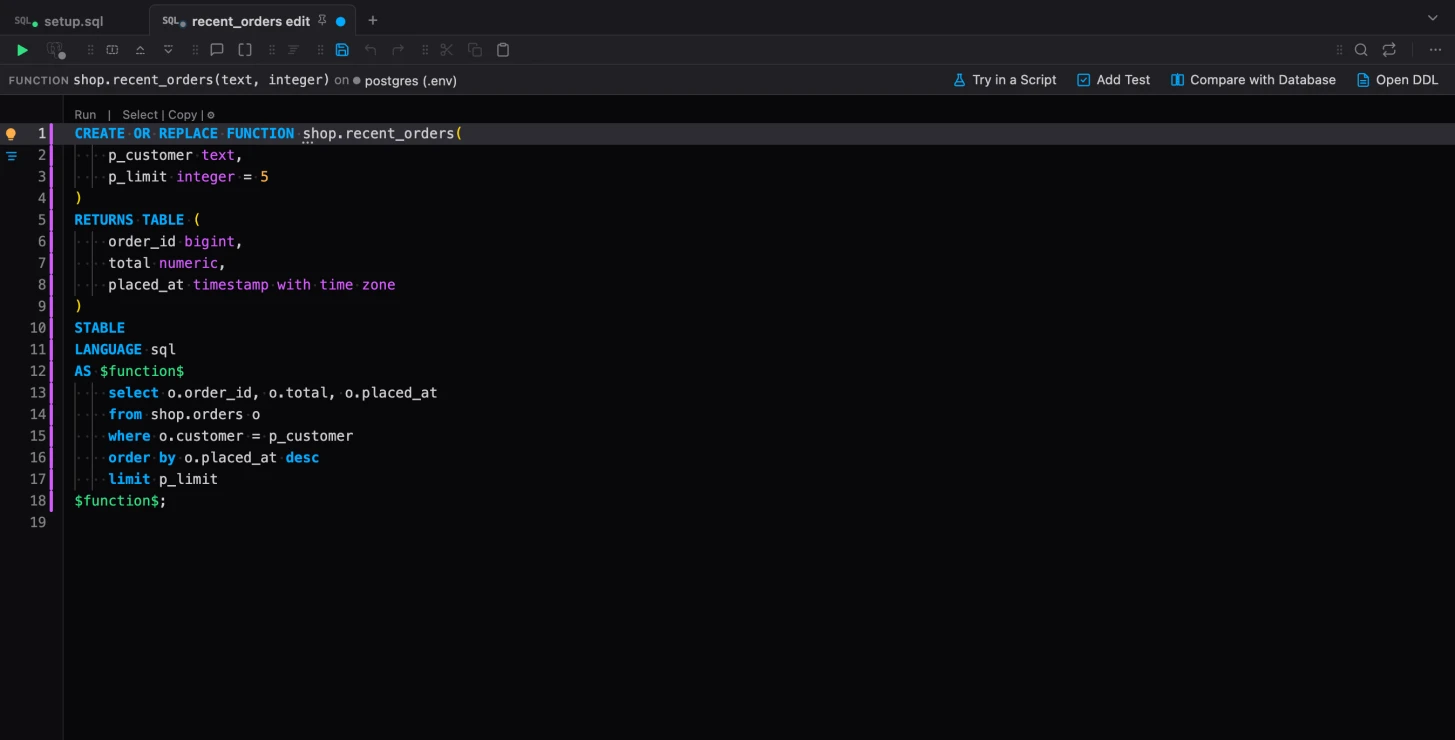
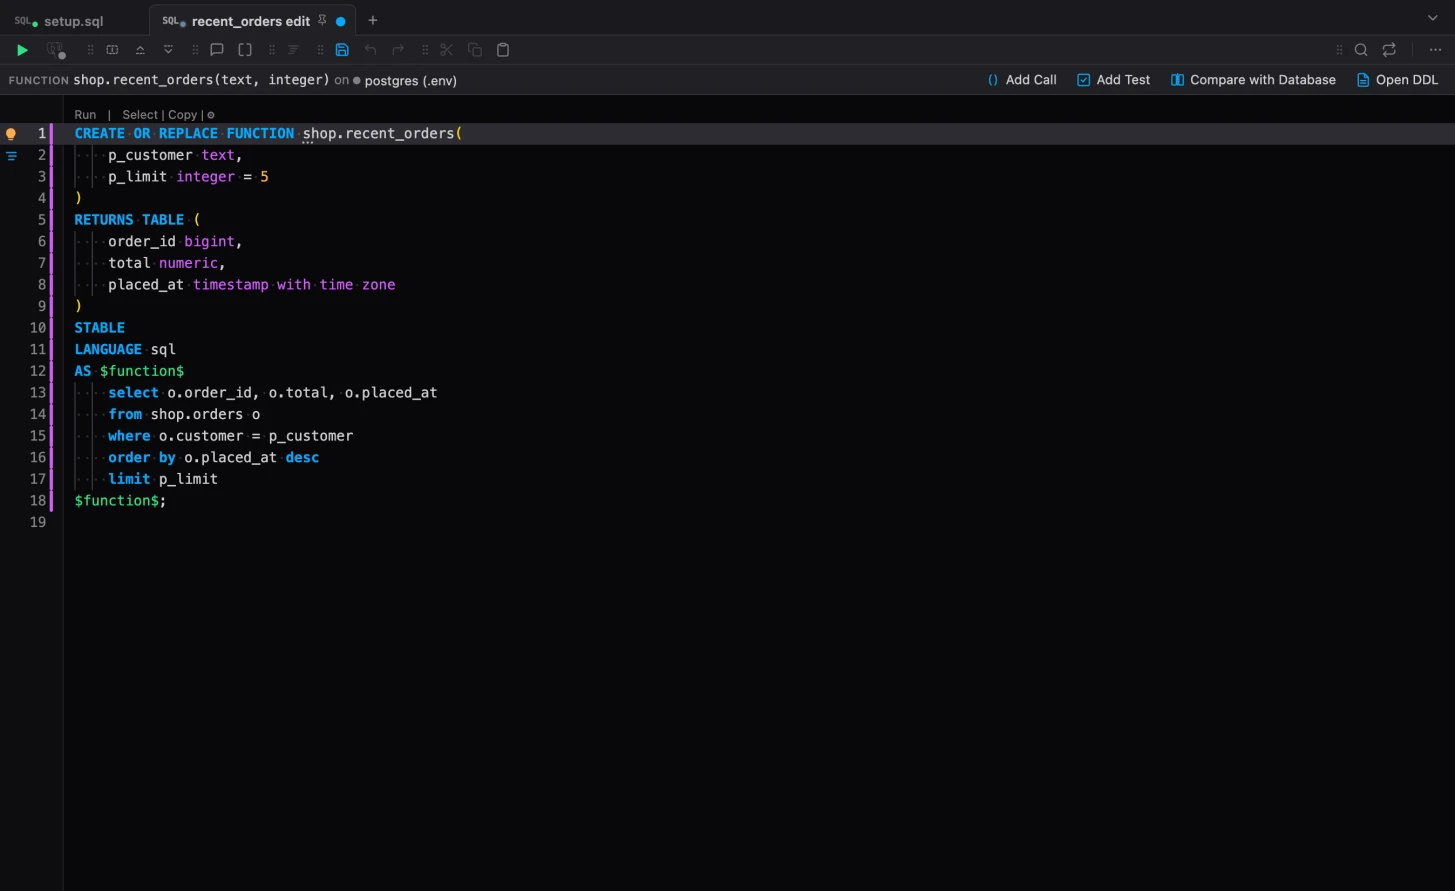
changelog: 0.33.0 notes: Add Call in place of Try in a Script, its pictures

Changed region(s): [[0.0, 0.0, 1.0, 0.6838]]

diff --git a/changelog/free-v0.33.0/README.md b/changelog/free-v0.33.0/README.md
@@ -20,7 +20,7 @@
   make tables.
 - **Functions and procedures in a script of their own:** Edit Function opens a function's code
   ready to change, says before the run what PostgreSQL will do with a changed signature, writes
-  a script to try your version, and writes a test for it.
+  a call and a test for it.
 - **DDL, laid out your way:** a function's parameters one per line, a table's columns lined up,
   and none of what PostgreSQL would assume anyway, each rule a setting of its own.
 - **Properties from a right click:** a table, a schema or a file shows its properties from
@@ -292,16 +292,16 @@ laid out as the DDL is, with everything the SQL editor does inside the body.
 
 The script has a toolbar of its own, then which function it edits:
 
-- **Try in a Script**: see what your version returns before you apply it, nothing kept.
+- **Add Call**: a call of the function, written into the script below it.
 - **Add Test**: a check written into the script, run each time you apply it.
 - **Compare with Database**: your version beside the one the database has now.
 - **Open DDL**: the function's DDL, as the database has it.
 
 The same are in the editor's right click, under Function.
 
-![A function's code in a script of its own: the function it edits and its connection at the left of its toolbar, Try in a Script, Add Test, Compare with Database and Open DDL at the right](media/edit-function.webp)
+![A function's code in a script of its own: the function it edits and its connection at the left of its toolbar, Add Call, Add Test, Compare with Database and Open DDL at the right](media/edit-function.webp)
 
-**Run** runs the whole script, the `CREATE OR REPLACE` and your tests below it, and first checks
+**Run** runs the whole script, the `CREATE OR REPLACE` and your call and tests below it, and first checks
 that nobody changed the function since you opened it; if someone did, you choose to replace their
 change or to compare. After the run the script follows the function it made. **Compare with
 Database** shows your version beside the database's.
@@ -321,21 +321,24 @@ back, for you to read and run.
 
 ![A parameter renamed: the function's name underlined, the toolbar saying CREATE OR REPLACE cannot do this, Write DROP and CREATE at its end](media/edit-signature.webp)
 
-### Try in a Script
+### Add Call
 
-Before you apply a change, you want to see what it does. **Try in a Script** opens a new script
-beside yours, never a line added to it: your version of the function and a call of it, between
-`BEGIN` and `ROLLBACK`, so the database keeps the function it has. Nothing runs until you run it. The call's arguments are asked in a
-form, each by its parameter's name, a default already filled in. The rows and the notices come
-back as from any script, and the `ROLLBACK` leaves the function as it was. **Write Again**
-writes it again from your script as it is now.
+**Add Call** writes a call of the function right below its `CREATE`, in the same script: its
+arguments are asked in a form when you run it, each by its parameter's name, a default already
+filled in. A script that calls the function already gets no second call: the cursor goes to the
+one it has.
 
-![The Try script with BEGIN and the function's new version, and the rows that version returned](media/try.webp)
+When the function's body writes (an `INSERT`, an `UPDATE`, DDL), the call is written between
+`BEGIN` and `ROLLBACK`: you see what it returns, and nothing it wrote is kept. A procedure that
+commits itself cannot run inside a transaction, and its comment says so. It is all SQL in your
+script: take the two lines away, or write your own around the whole script, as you like.
+
+![A function that inserts, its call written below it between BEGIN and ROLLBACK, and what the call returned](media/call.webp)
 
 ### Add Test
 
-A try is for now; a test is for every change after it. **Add Test** writes a test at the end of
-your script, so each time you apply the function the test runs right after it and fails loudly
+A call is for now; a test is for every change after it. **Add Test** writes a test at the end of
+your script (inside a `BEGIN` and `ROLLBACK` you wrote around it), so each time you apply the function the test runs right after it and fails loudly
 if the function no longer returns what you expect. It is a `DO` block that calls the function
 and `ASSERT`s on what it returns, shaped by its result:
 
@@ -344,7 +347,8 @@ and `ASSERT`s on what it returns, shaped by its result:
 - **a record** field by field, a procedure's OUT parameters the same way.
 
 Every value you expect is a `null` to fill in, so the test fails until it says something; the
-first one is selected for you to type over. Run runs it after the `CREATE`, the way you would
+first one is selected for you to type over, and a second Add Test before you filled it in takes
+you back to it instead of writing another. Run runs it after the `CREATE`, the way you would
 write it yourself.
 
 ![A test added below the function: ARRANGE, ACT with the call, ASSERT with the nulls to fill in, the first one selected](media/add-test.webp)
